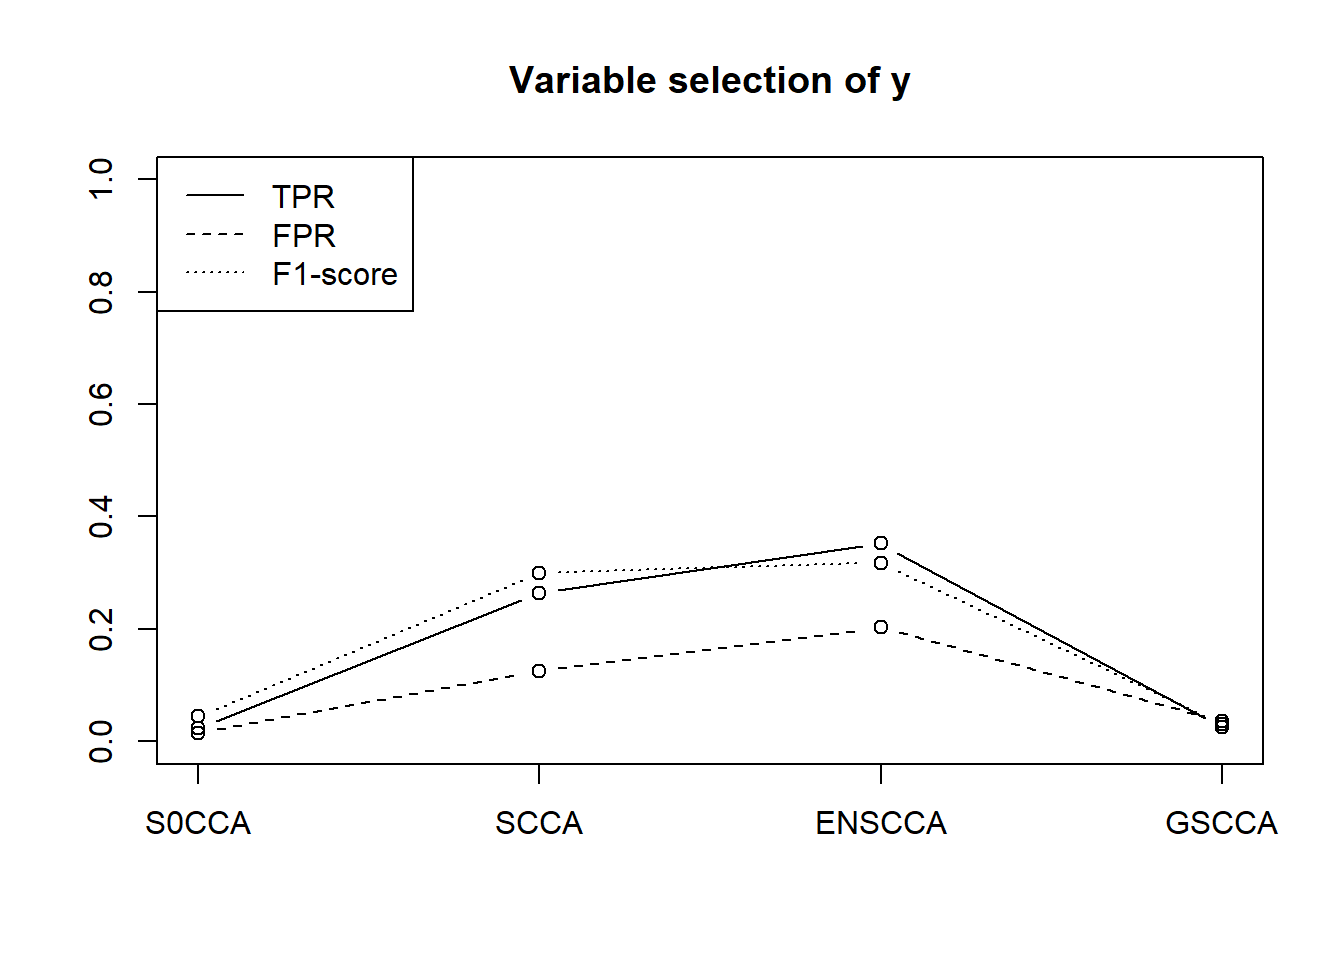
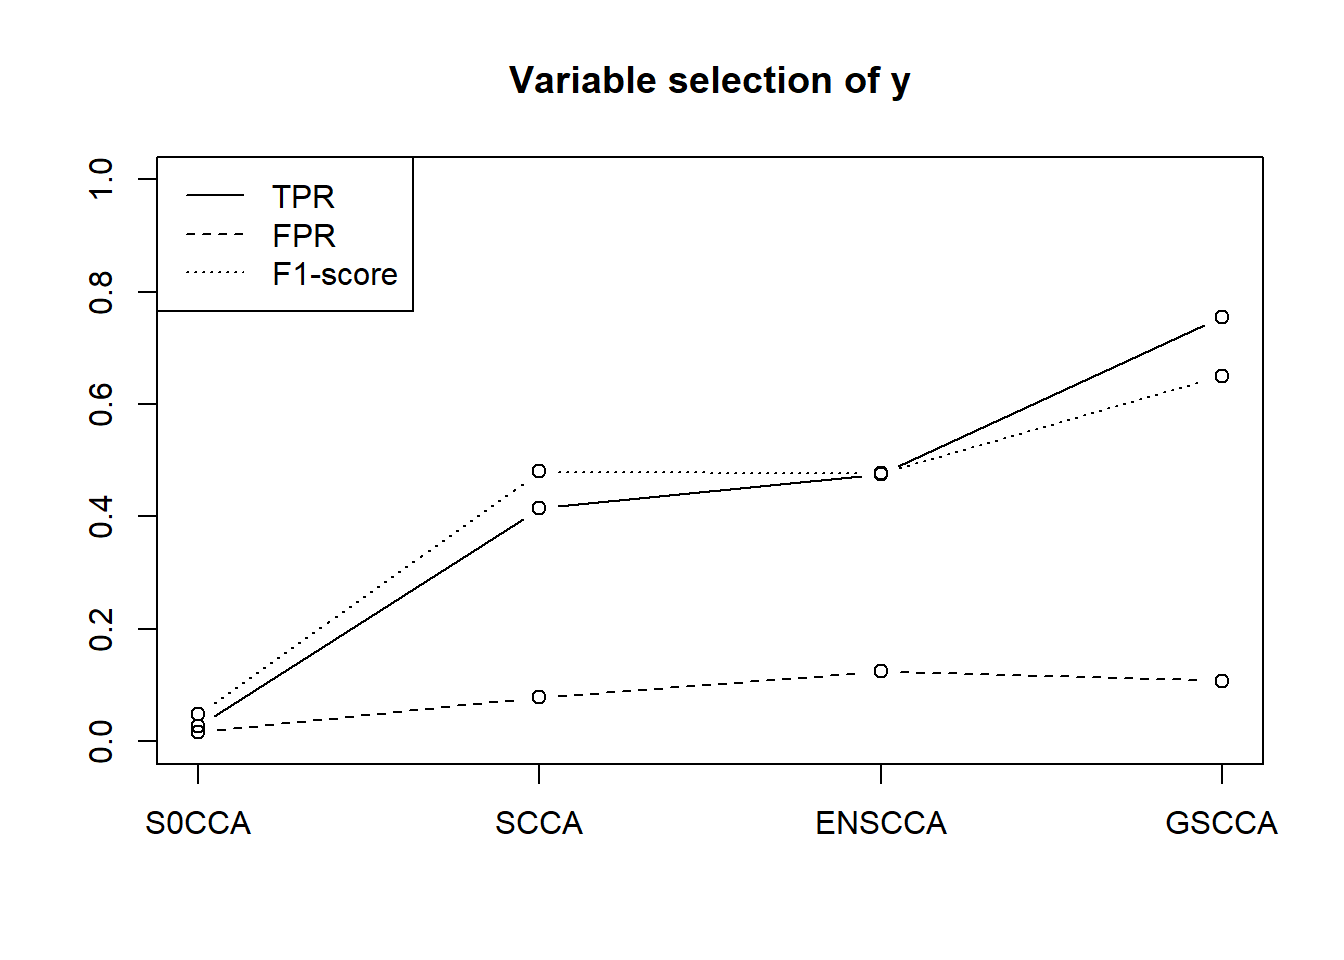
Build site.

diff --git a/docs/count2.html b/docs/count2.html
@@ -323,7 +323,7 @@ shared across the workflowr files. -->
 <p><strong>Last updated:</strong> 2017-12-29</p>
 <!-- Insert the code version (Git commit SHA1) if Git repository exists and R
  package git2r is installed -->
-<p><strong>Code version:</strong> 7d9f3a4</p>
+<p><strong>Code version:</strong> a9123da</p>
 <!-- Add your analysis here -->
 <p>Generate count data using a Dirichlet Multinomial model</p>
 <pre class="r"><code>library(scca)
@@ -332,10 +332,10 @@ v=c(rep(c(1,0.2),5),rep(c(-1,-0.2),5),rep(0,80))
 sigma_x=arcov(0.7,100)
 sigma_y=sigma_x
 edges=c(as.numeric(combn(1:10,2)),as.numeric(combn(11:20,2)),21:100)
-countlS0=finals(s0cca_simu(100,u,v,50,&#39;count_latent&#39;,2,sigma_x,sigma_y))
-countlS1=finals(s1cca_simu(100,u,v,50,&#39;count_latent&#39;,2,sigma_x,sigma_y))
-countlelnet=finals(elnet.cca.simu(100,u,v,50,&#39;count_latent&#39;,2,sigma_x,sigma_y))
-countlgscca=finals(gscca.simu.normal(100,edges,u,v,50,&#39;count_latent&#39;,2,sigma_x,sigma_y,gamma.u = c(1.3),gamma.v = c(1.3)))</code></pre>
+countlS0=finals(s0cca_simu(100,u,v,50,&#39;count_latent&#39;,2,sigma_x,sigma_y,lambda_z = 20))
+countlS1=finals(s1cca_simu(100,u,v,50,&#39;count_latent&#39;,2,sigma_x,sigma_y,lambda_z = 20))
+countlelnet=finals(elnet.cca.simu(100,u,v,50,&#39;count_latent&#39;,2,sigma_x,sigma_y,lambda_z = 20))
+countlgscca=finals(gscca.simu.normal(100,edges,u,v,50,&#39;count_latent&#39;,2,sigma_x,sigma_y,gamma.u=1,gamma.v=0.7,lambda_z = 20))</code></pre>
 <pre class="r"><code>plot(c((countlS0)[1],(countlS1)[1],(countlelnet)[1],(countlgscca)[1]),type = &#39;b&#39;,ylim = c(0,1), xaxt=&quot;n&quot;,
      ylab=&#39;&#39;,xlab=&#39;&#39;,main = &#39;Variable selection of x&#39;)
 lines(c((countlS0)[3],(countlS1)[3],(countlelnet)[3],(countlgscca)[3]),type = &#39;b&#39;,lty=2)
